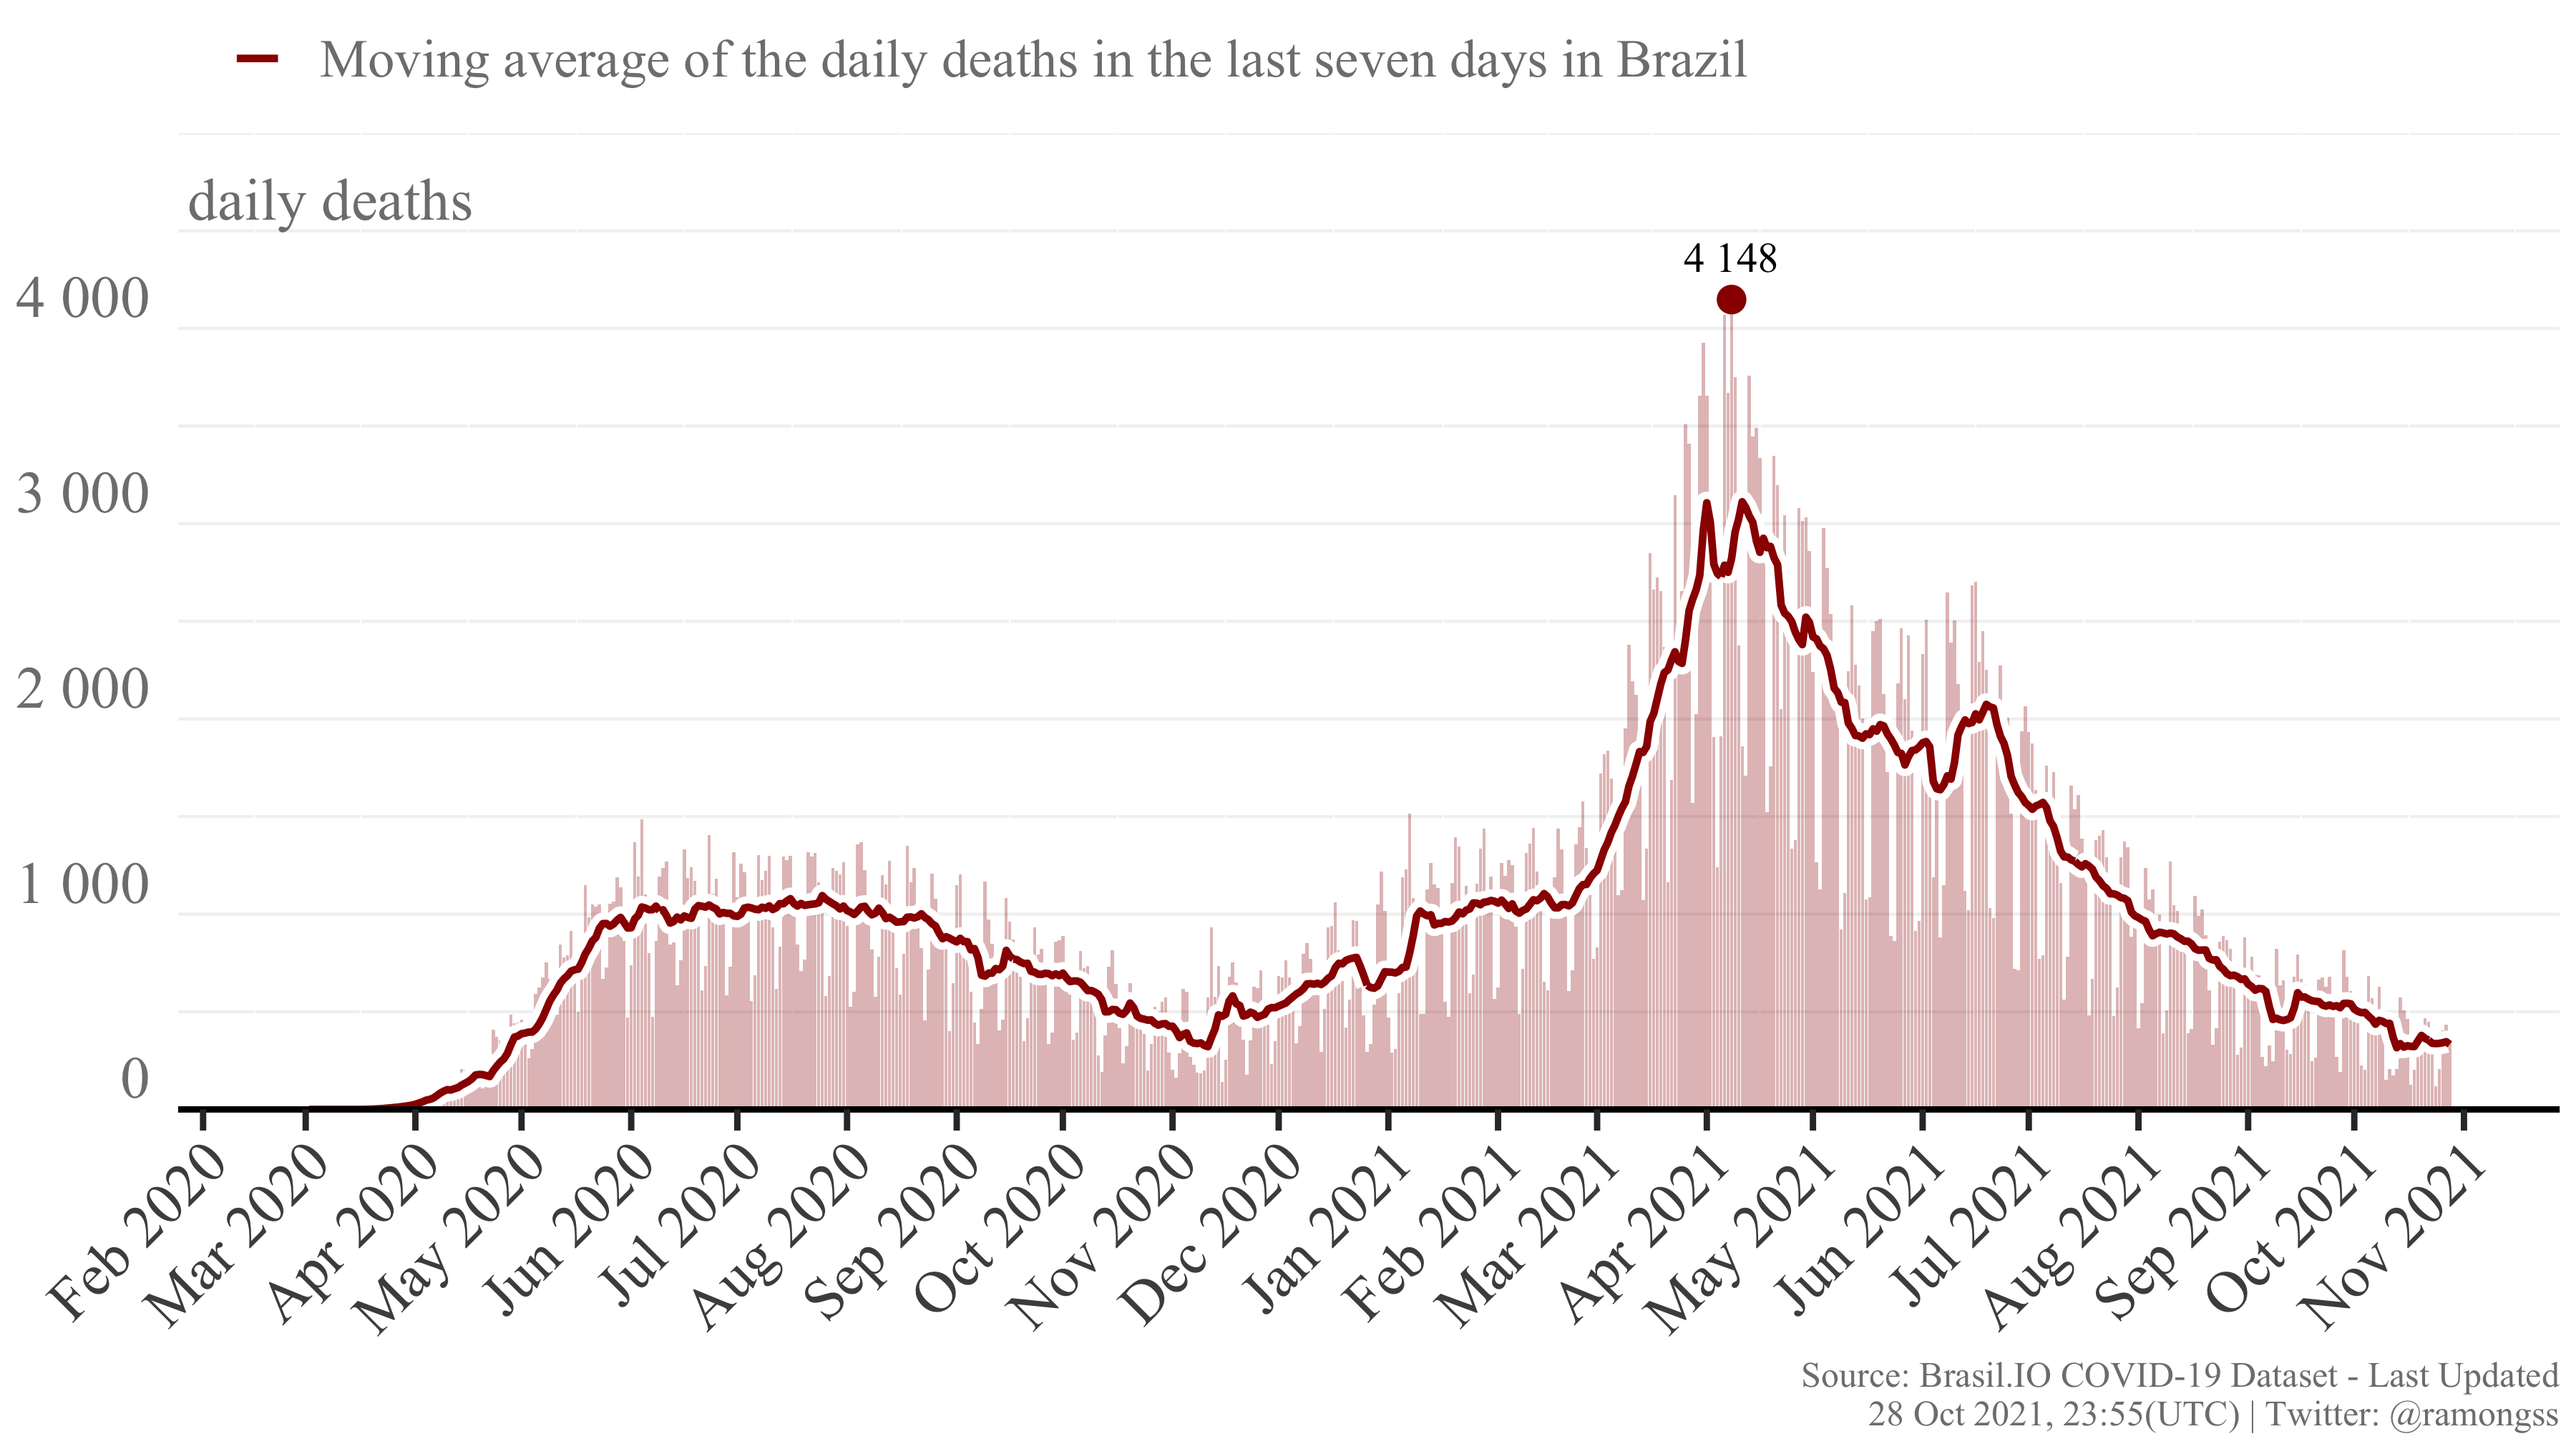
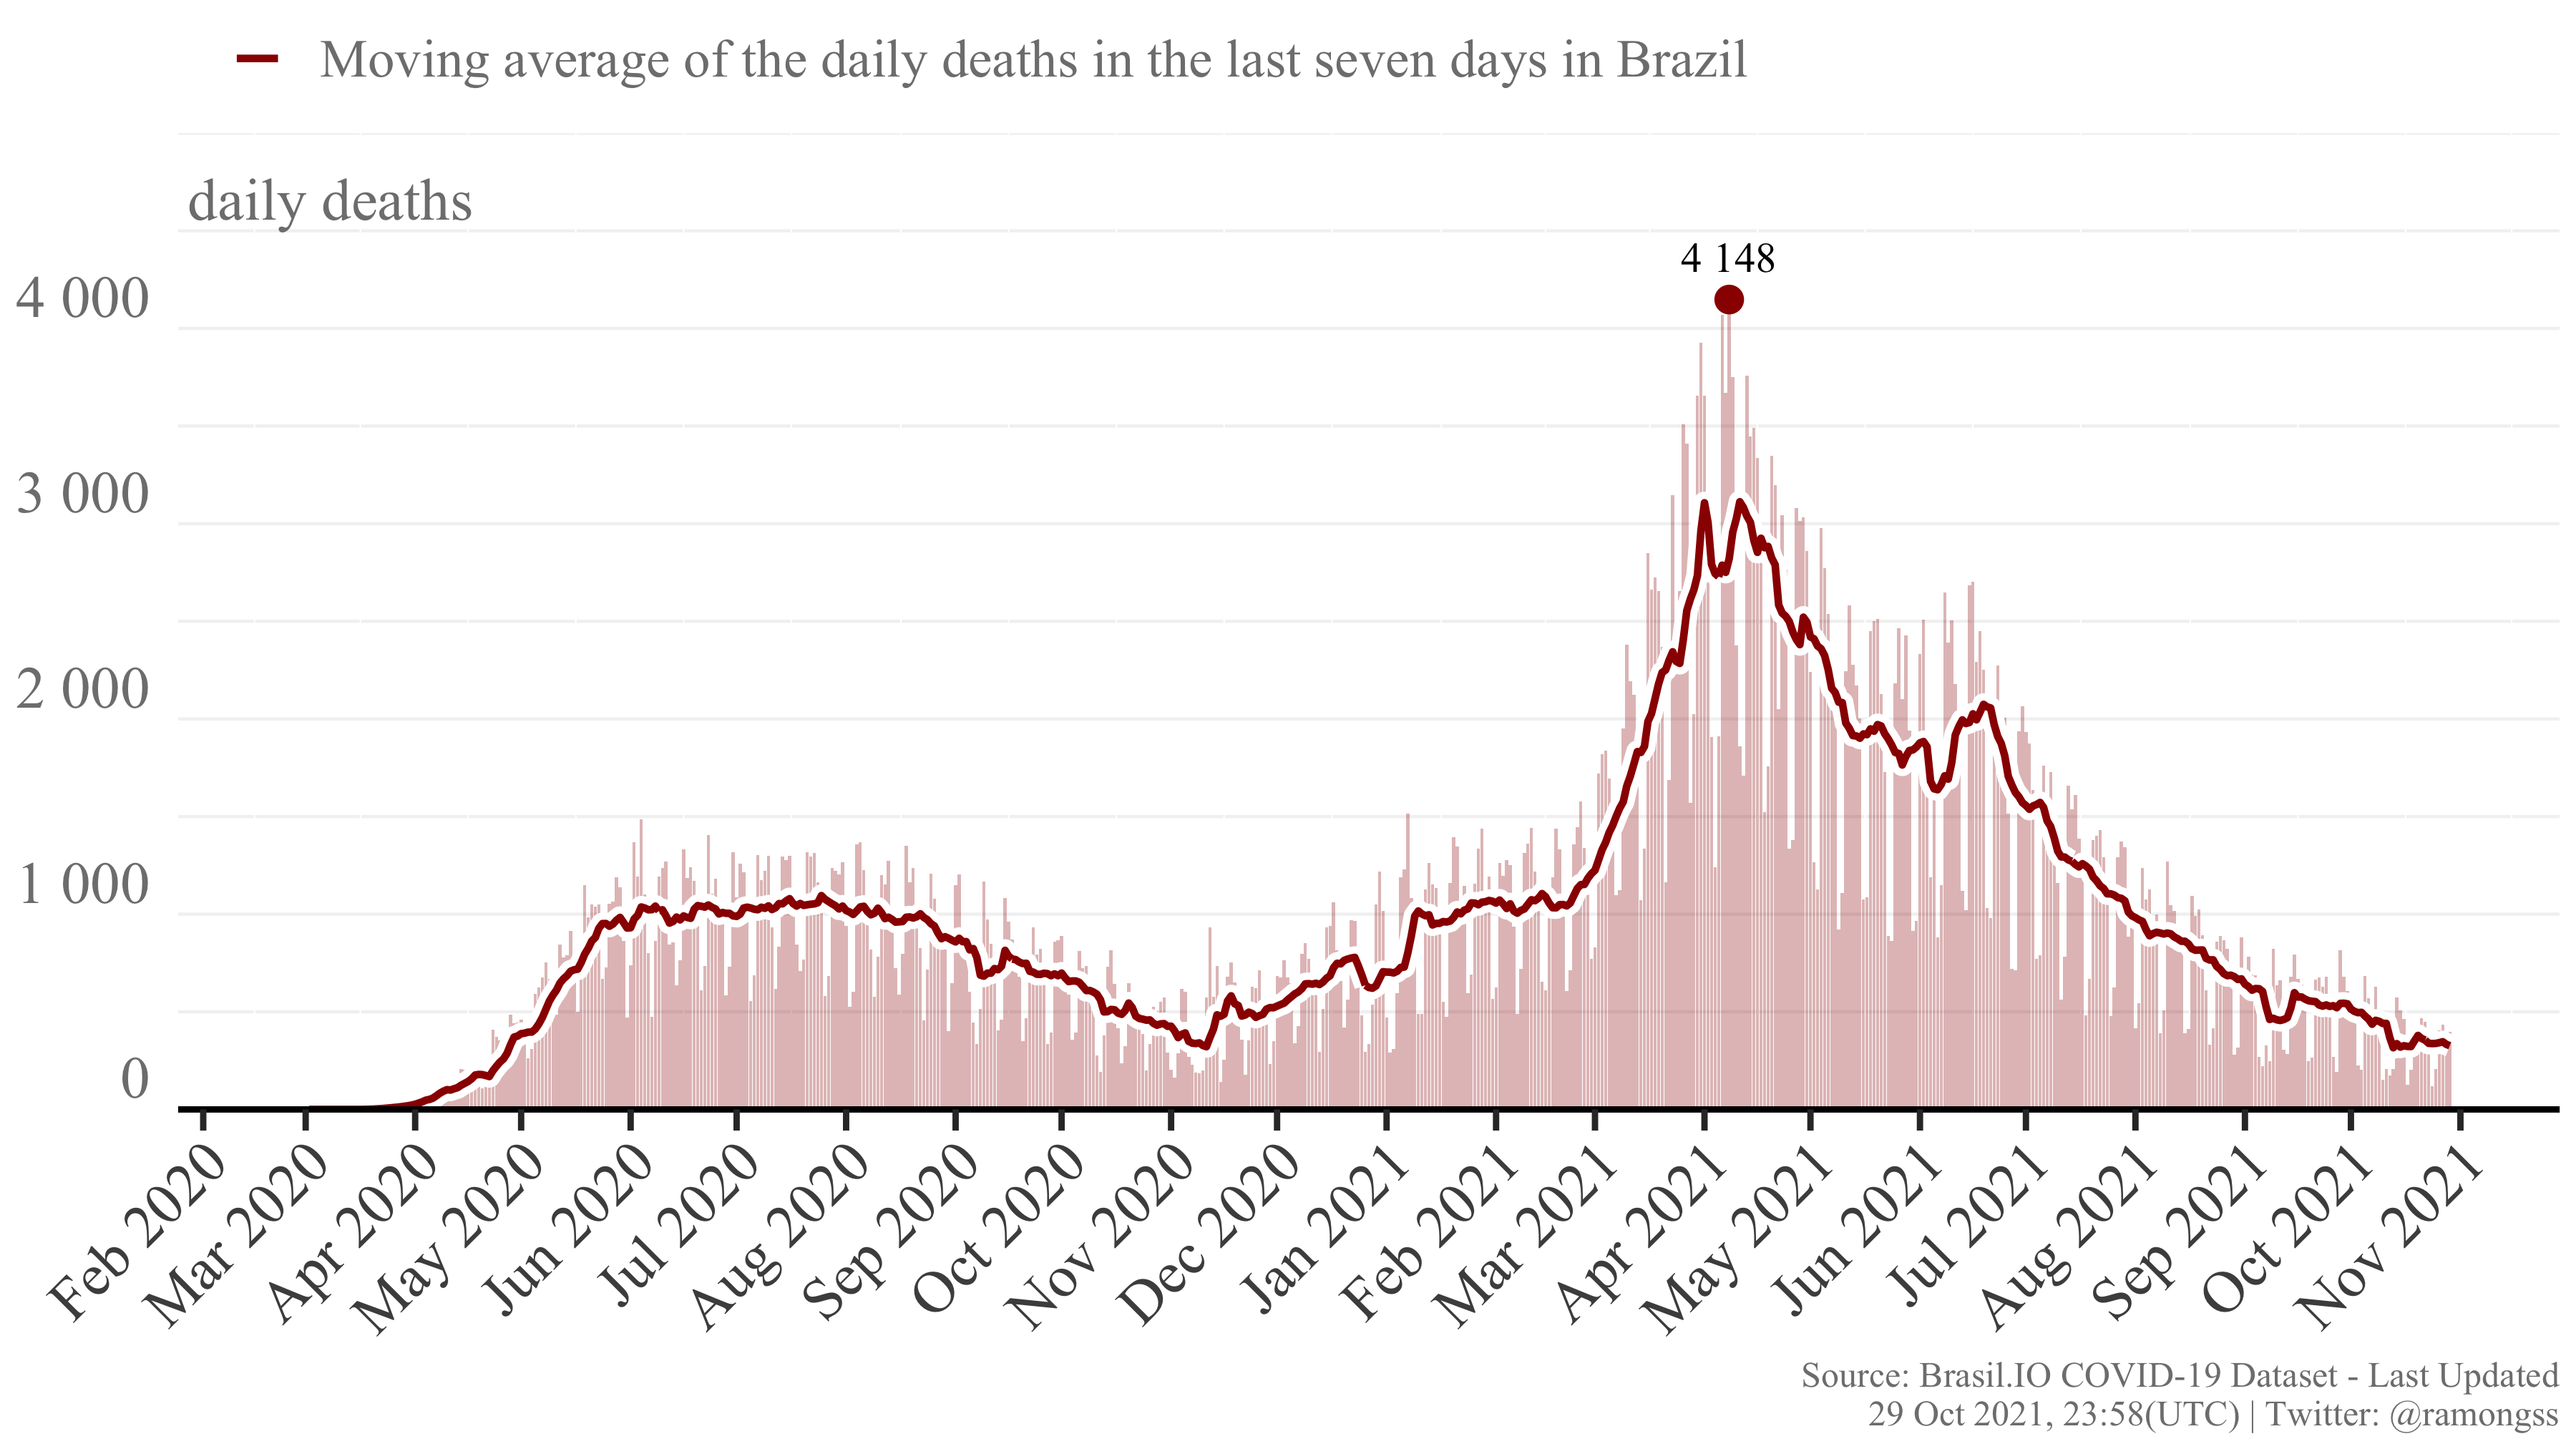
Re-build README.Rmd

diff --git a/README.md b/README.md
@@ -27,8 +27,8 @@ download_brasilio_table <- function(dataset = "covid19", table_name){
 
 ## COVID-19 Confirmed cases
 
-Currently, Brazil has a total of **21,785,261** confirmed cases at **28
-Oct, 2021**, with **13,148** new confirmed cases. The daily maximum
+Currently, Brazil has a total of **21,797,940** confirmed cases at **29
+Oct, 2021**, with **12,138** new confirmed cases. The daily maximum
 incidence was **124,878** confirmed cases at **18 Sep, 2021**. Here
 follows the Figure showing the confirmed case incidence as the bars, and
 the line as the moving average of the last 7 days.
@@ -37,8 +37,8 @@ the line as the moving average of the last 7 days.
 
 ## COVID-19 Deaths
 
-Currently, Brazil has a total of **607,322** deaths at **28 Oct, 2021**,
-with **370** new deaths. The daily maximum deaths incidence was
+Currently, Brazil has a total of **607,722** deaths at **29 Oct, 2021**,
+with **397** new deaths. The daily maximum deaths incidence was
 **4,148** deaths at **08 Apr, 2021**. Here follows the Figure showing
 the deaths incidence as the bars, and the line as the moving average of
 the last 7 days.
@@ -49,4 +49,4 @@ the last 7 days.
 
 This page is daily updated automatically using Github Actions.
 
-*Last update: 28 Oct 2021, 23:55 (UTC).*
+*Last update: 29 Oct 2021, 23:58 (UTC).*
